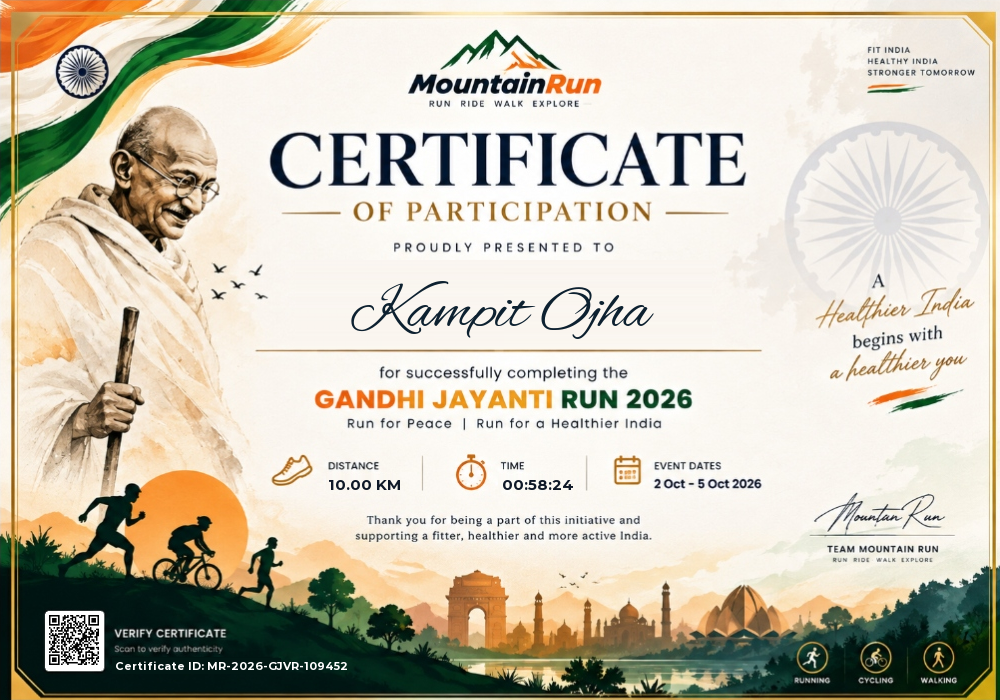
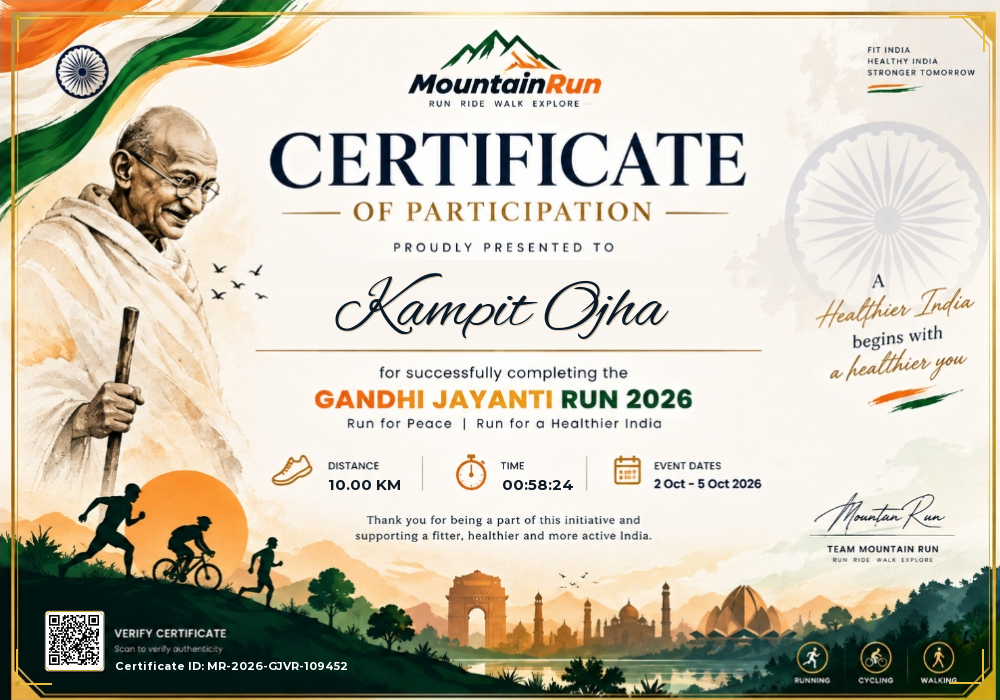
feat(certificates): polish visual presentation with ambient halo, gold filigree accents, WhatsApp sharing, and celebratory confetti

Changed region(s): [[0.341, 0.39, 0.682, 0.48]]

diff --git a/frontend/src/app/certificates/[certificateNumber]/page.tsx b/frontend/src/app/certificates/[certificateNumber]/page.tsx
@@ -133,6 +133,59 @@ function LuxuryWaxSeal() {
   );
 }
 
+function CelebrationConfetti() {
+  const [active, setActive] = useState(true);
+
+  useEffect(() => {
+    const timer = setTimeout(() => setActive(false), 4500);
+    return () => clearTimeout(timer);
+  }, []);
+
+  if (!active) return null;
+
+  const confettiPieces = Array.from({ length: 38 }).map((_, i) => {
+    const colors = ["#FF9933", "#ffffff", "#138808", "#e5b83b", "#c9a227", "#34d399"];
+    const color = colors[i % colors.length];
+    const left = (i * 2.6) % 100;
+    const animDelay = (i * 0.08) % 1.6;
+    const animDuration = 2.8 + (i % 5) * 0.4;
+    const size = 6 + (i % 4) * 2.5;
+    const isCircle = i % 3 === 0;
+
+    return (
+      <div
+        key={i}
+        className="fixed pointer-events-none z-50"
+        style={{
+          top: "-20px",
+          left: `${left}%`,
+          width: `${size}px`,
+          height: isCircle ? `${size}px` : `${size * 1.5}px`,
+          backgroundColor: color,
+          borderRadius: isCircle ? "50%" : "2px",
+          boxShadow: `0 0 8px ${color}`,
+          animation: `confettiFall ${animDuration}s ease-in forwards`,
+          animationDelay: `${animDelay}s`,
+          transform: `rotate(${(i * 37) % 360}deg)`,
+        }}
+      />
+    );
+  });
+
+  return (
+    <div className="fixed inset-0 pointer-events-none z-50 overflow-hidden print:hidden">
+      <style>{`
+        @keyframes confettiFall {
+          0% { transform: translateY(0) rotate(0deg) scale(1); opacity: 1; }
+          75% { opacity: 0.9; }
+          100% { transform: translateY(105vh) rotate(720deg) scale(0.6); opacity: 0; }
+        }
+      `}</style>
+      {confettiPieces}
+    </div>
+  );
+}
+
 function GandhiCertificateCanvas({
   data,
   viewMode = "landscape",
@@ -201,7 +254,7 @@ function GandhiCertificateCanvas({
         // 2. Wait for Alex Brush cursive calligraphy font
         if (typeof document !== "undefined" && document.fonts) {
           try {
-            await document.fonts.load("60px 'Alex Brush'");
+            await document.fonts.load("68px 'Alex Brush'");
             await document.fonts.ready;
           } catch {
             // Proceed
@@ -211,9 +264,35 @@ function GandhiCertificateCanvas({
         // 3. Draw Runner Name in Cursive Calligraphy
         ctx.textAlign = "center";
         ctx.textBaseline = "alphabetic";
-        ctx.fillStyle = "#0d2130";
-        ctx.font = "60px 'Alex Brush', 'Great Vibes', cursive";
+        ctx.font = "68px 'Alex Brush', 'Great Vibes', cursive";
+
+        // Subtle soft drop shadow for depth
+        ctx.fillStyle = "#d2c3af";
+        ctx.fillText(data.runnerName, 503, 329);
+        ctx.fillStyle = "#0a1a28";
         ctx.fillText(data.runnerName, 502, 328);
+
+        // Subtle gold flourishes flanking the name
+        const textMetrics = ctx.measureText(data.runnerName);
+        const halfW = textMetrics.width / 2;
+        const leftX = 502 - halfW - 14;
+        const rightX = 502 + halfW + 14;
+        const flourishY = 320;
+
+        ctx.strokeStyle = "#c9a227";
+        ctx.lineWidth = 1;
+        if (leftX > 325) {
+          ctx.beginPath();
+          ctx.moveTo(leftX - 30, flourishY);
+          ctx.lineTo(leftX - 6, flourishY);
+          ctx.stroke();
+        }
+        if (rightX < 675) {
+          ctx.beginPath();
+          ctx.moveTo(rightX + 6, flourishY);
+          ctx.lineTo(rightX + 30, flourishY);
+          ctx.stroke();
+        }
 
         // 4. Stats: Distance & Time
         ctx.font = "bold 15px 'Montserrat', -apple-system, sans-serif";
@@ -294,18 +373,40 @@ function GandhiCertificateCanvas({
     }
   };
 
+  const handleWhatsAppShare = () => {
+    if (typeof window !== "undefined") {
+      const shareUrl = window.location.href;
+      const shareText = `🏅 Proud to share my official Certificate of Participation for the Gandhi Jayanti Victory Run 2026 (${data.distance || "10.00 KM"}) with Mountain Run!\n\nVerify certificate here: ${shareUrl}`;
+      window.open(`https://api.whatsapp.com/send?text=${encodeURIComponent(shareText)}`, "_blank");
+    }
+  };
+
   return (
-    <div className={`w-full mx-auto space-y-6 transition-all duration-300 ${viewMode === "portrait" ? "max-w-xl" : "max-w-4xl"}`}>
-      {/* ── Direct Hero Certificate (Clean Centerpiece without Nested Frames) ── */}
+    <div className={`w-full mx-auto space-y-6 sm:space-y-8 transition-all duration-300 relative ${viewMode === "portrait" ? "max-w-xl" : "max-w-4xl"}`}>
+      <CelebrationConfetti />
+
+      {/* ── Ambient Radial Halo / Stage Lighting (Celebratory Glow) ── */}
+      <div className="absolute -inset-4 sm:-inset-10 rounded-[2.5rem] bg-gradient-to-tr from-[#ff9933]/15 via-[#c9a227]/20 to-[#138808]/15 blur-3xl opacity-75 pointer-events-none -z-10 animate-pulse duration-1000" />
+
+      {/* ── Direct Hero Certificate (Clean Centerpiece with Museum Depth) ── */}
       <div
         ref={certRef as React.RefObject<HTMLDivElement>}
         id="certificate-print"
-        className="relative group rounded-2xl sm:rounded-3xl overflow-hidden shadow-2xl transition-all duration-300 hover:shadow-[0_25px_65px_rgba(0,0,0,0.6)] cursor-pointer bg-white"
+        className="relative group rounded-2xl sm:rounded-3xl overflow-hidden shadow-2xl transition-all duration-300 hover:shadow-[0_30px_90px_rgba(0,0,0,0.85)] cursor-pointer bg-white border-2 sm:border-3 border-[#c9a227]/70"
         onClick={() => setIsModalOpen(true)}
         style={{
-          boxShadow: "0 22px 55px rgba(0,0,0,0.45), 0 0 0 1px rgba(201,162,39,0.35)",
+          boxShadow: "0 25px 65px -10px rgba(0,0,0,0.85), 0 0 45px rgba(201,162,39,0.22)",
         }}
       >
+        {/* Floating Top-Right Verified Badge */}
+        <div className="absolute top-2.5 right-2.5 sm:top-3.5 sm:right-3.5 z-10 pointer-events-none">
+          <span className="inline-flex items-center gap-1.5 px-3 py-1 rounded-full bg-black/70 backdrop-blur-md border border-[#c9a227]/70 text-[#e5b83b] text-[0.6rem] sm:text-xs font-bold tracking-wide shadow-xl">
+            <span className="w-2 h-2 rounded-full bg-[#34d399] animate-pulse" />
+            <span>✓ OFFICIALLY VERIFIED</span>
+          </span>
+        </div>
+
+        {/* Certificate Image */}
         {/* eslint-disable-next-line @next/next/no-img-element */}
         <img
           src={displayImage}
@@ -314,20 +415,21 @@ function GandhiCertificateCanvas({
         />
 
         {/* Hover zoom hint */}
-        <div className="absolute inset-0 bg-black/25 opacity-0 group-hover:opacity-100 transition-opacity flex items-center justify-center pointer-events-none">
+        <div className="absolute inset-0 bg-black/20 opacity-0 group-hover:opacity-100 transition-opacity flex items-center justify-center pointer-events-none">
           <span className="px-5 py-2.5 rounded-full bg-black/85 text-[#e5b83b] text-xs sm:text-sm font-bold shadow-2xl backdrop-blur-xs flex items-center gap-2 border border-[#c9a227]/50">
             🔍 Click to View Fullscreen / Zoom
           </span>
         </div>
       </div>
 
-      {/* ── Primary Action Buttons Directly Below Certificate ── */}
-      <div className="flex flex-wrap items-center justify-center gap-3 pt-1 print:hidden">
+      {/* ── Unified Luxury Action Dock Directly Below Certificate ── */}
+      <div className="flex flex-wrap items-center justify-center gap-2.5 sm:gap-3.5 pt-1 print:hidden">
+        {/* Primary Download PNG Button */}
         <button
           type="button"
           onClick={handleGandhiDownload}
           disabled={isDownloading}
-          className="inline-flex items-center gap-2 px-6 sm:px-8 py-3 rounded-full bg-gradient-to-r from-[#0d3829] to-[#134e3a] border-2 border-[#c9a227] text-white font-black text-xs sm:text-sm tracking-wider uppercase shadow-xl hover:scale-105 active:scale-95 transition-all cursor-pointer disabled:opacity-75"
+          className="inline-flex items-center gap-2 px-6 sm:px-8 py-3 rounded-full bg-gradient-to-r from-[#0d3829] via-[#134e3a] to-[#0d3829] border-2 border-[#c9a227] text-white font-black text-xs sm:text-sm tracking-wider uppercase shadow-xl hover:scale-105 active:scale-95 transition-all cursor-pointer disabled:opacity-75 hover:shadow-[0_0_25px_rgba(201,162,39,0.35)]"
         >
           {isDownloading ? (
             <>
@@ -337,27 +439,50 @@ function GandhiCertificateCanvas({
           ) : (
             <>
               <span>🏆</span>
-              <span>DOWNLOAD HIGH-RES CERTIFICATE (PNG)</span>
+              <span>DOWNLOAD HIGH-RES (PNG)</span>
             </>
           )}
         </button>
 
+        {/* PDF / Print Button */}
+        <button
+          type="button"
+          onClick={() => window.print()}
+          className="inline-flex items-center gap-2 px-4 sm:px-5 py-3 rounded-full bg-white/10 hover:bg-white/20 border border-white/25 text-white font-bold text-xs sm:text-sm shadow-md transition-all cursor-pointer"
+        >
+          <span>📄</span>
+          <span>PDF / Print</span>
+        </button>
+
+        {/* Fullscreen Button */}
         <button
           type="button"
           onClick={() => setIsModalOpen(true)}
-          className="inline-flex items-center gap-2 px-5 sm:px-6 py-3 rounded-full bg-white/10 hover:bg-white/20 border-2 border-white/20 text-white font-bold text-xs sm:text-sm tracking-wide shadow-md transition-all cursor-pointer"
+          className="inline-flex items-center gap-2 px-4 sm:px-5 py-3 rounded-full bg-white/10 hover:bg-white/20 border border-white/25 text-white font-bold text-xs sm:text-sm shadow-md transition-all cursor-pointer"
         >
           <span>🔍</span>
-          <span>VIEW FULLSCREEN</span>
+          <span>Fullscreen</span>
         </button>
 
+        {/* WhatsApp Share Button */}
+        <button
+          type="button"
+          onClick={handleWhatsAppShare}
+          className="inline-flex items-center gap-2 px-4 sm:px-5 py-3 rounded-full bg-[#25D366]/20 hover:bg-[#25D366]/30 border border-[#25D366]/50 text-[#25D366] hover:text-white font-bold text-xs sm:text-sm shadow-md transition-all cursor-pointer"
+          title="Share on WhatsApp"
+        >
+          <span>💬</span>
+          <span>WhatsApp</span>
+        </button>
+
+        {/* Copy Share Link */}
         {onShare && (
           <button
             type="button"
             onClick={onShare}
-            className="inline-flex items-center gap-2 px-5 sm:px-6 py-3 rounded-full bg-white/5 hover:bg-white/10 border-2 border-white/15 text-white/90 font-bold text-xs sm:text-sm shadow-sm transition-all cursor-pointer"
+            className="inline-flex items-center gap-2 px-4 sm:px-5 py-3 rounded-full bg-white/5 hover:bg-white/10 border border-white/20 text-white/90 font-bold text-xs sm:text-sm shadow-sm transition-all cursor-pointer"
           >
-            <span>{copied ? "✓ Copied Link!" : "🔗 Share Certificate"}</span>
+            <span>{copied ? "✓ Copied Link!" : "🔗 Share Link"}</span>
           </button>
         )}
       </div>
@@ -441,7 +566,7 @@ function GandhiCertificateCanvas({
               className="max-h-[82vh] w-auto max-w-full rounded-2xl shadow-2xl border-2 border-[#c9a227] object-contain"
               onClick={(e) => e.stopPropagation()}
             />
-            <div className="mt-4 flex items-center gap-3">
+            <div className="mt-4 flex flex-wrap items-center justify-center gap-3">
               <button
                 type="button"
                 onClick={(e) => {
@@ -451,6 +576,16 @@ function GandhiCertificateCanvas({
                 className="px-6 py-2.5 rounded-full bg-gradient-to-r from-[#0d3829] to-[#134e3a] border-2 border-[#c9a227] text-white text-xs sm:text-sm font-bold hover:scale-105 active:scale-95 transition-all cursor-pointer shadow-lg"
               >
                 🏆 Download PNG
+              </button>
+              <button
+                type="button"
+                onClick={(e) => {
+                  e.stopPropagation();
+                  handleWhatsAppShare();
+                }}
+                className="px-5 py-2.5 rounded-full bg-[#25D366]/20 hover:bg-[#25D366]/30 border border-[#25D366]/50 text-[#25D366] hover:text-white text-xs sm:text-sm font-bold transition-all shadow-md cursor-pointer"
+              >
+                💬 Share on WhatsApp
               </button>
             </div>
           </div>
@@ -596,23 +731,40 @@ export default function CertificateVerifyPage() {
       <section className="section pt-24 sm:pt-32 pb-12 sm:pb-16">
         <div className="container-page max-w-5xl">
           {/* Header controls (hidden on print) */}
-          <div className="flex flex-col sm:flex-row sm:items-center justify-between gap-4 mb-6 print:hidden">
+          <div className="flex flex-col sm:flex-row sm:items-center justify-between gap-4 mb-6 sm:mb-8 print:hidden">
             <div>
-              <p className="eyebrow text-[#c9a227]">Official Finisher Credential</p>
-              <h1 className="heading text-2xl sm:text-3xl mt-1">Certificate of Achievement</h1>
-              <p className="lede text-xs sm:text-sm mt-1">Verified Mountain Run finisher achievement.</p>
+              <div className="inline-flex items-center gap-2 px-3 py-1 rounded-full bg-gradient-to-r from-[#FF9933]/15 via-white/5 to-[#138808]/15 border border-[#c9a227]/40 mb-2">
+                <span className="text-xs">🇮🇳</span>
+                <span className="text-[0.65rem] sm:text-xs font-black tracking-widest uppercase text-[#e5b83b]">
+                  NATIONAL FINISHER CREDENTIAL • GANDHI JAYANTI 2026
+                </span>
+              </div>
+              <h1 className="heading text-2xl sm:text-3xl font-black text-white tracking-tight">
+                Certificate of Participation
+              </h1>
+              <p className="text-xs sm:text-sm text-white/70 mt-1">
+                Awarded to <strong className="text-[#e5b83b] font-bold">{data?.runnerName || "Finisher"}</strong> for successfully completing <strong className="text-white">{data?.distance || "10.00 KM"}</strong>.
+              </p>
             </div>
 
             {data && (
-              <div className="flex flex-wrap items-center gap-2">
+              <div className="flex items-center gap-2.5 shrink-0">
+                {/* Official verified badge */}
+                <div className="hidden sm:inline-flex items-center gap-1.5 px-3.5 py-1.5 rounded-xl bg-[#138808]/15 border border-[#138808]/40 text-[#34d399] text-xs font-bold shadow-sm">
+                  <svg className="w-3.5 h-3.5" viewBox="0 0 20 20" fill="currentColor">
+                    <path fillRule="evenodd" d="M10 18a8 8 0 100-16 8 8 0 000 16zm3.707-9.293a1 1 0 00-1.414-1.414L9 10.586 7.707 9.293a1 1 0 00-1.414 1.414l2 2a1 1 0 001.414 0l4-4z" clipRule="evenodd" />
+                  </svg>
+                  <span>Verified Finisher</span>
+                </div>
+
                 {/* View Mode Toggle Switch */}
-                <div className="inline-flex rounded-xl bg-black/10 p-1 border border-white/15">
+                <div className="inline-flex rounded-xl bg-white/5 p-1 border border-white/15 backdrop-blur-sm shadow-sm">
                   <button
                     type="button"
                     onClick={() => setViewMode("landscape")}
                     className={`px-3 py-1.5 rounded-lg text-xs font-bold transition-all flex items-center gap-1.5 ${
                       viewMode === "landscape"
-                        ? "bg-[#0d3829] text-[#e5b83b] shadow-md"
+                        ? "bg-[#0d3829] text-[#e5b83b] shadow-md border border-[#c9a227]/40"
                         : "text-(--muted) hover:text-foreground"
                     }`}
                   >
@@ -623,53 +775,13 @@ export default function CertificateVerifyPage() {
                     onClick={() => setViewMode("portrait")}
                     className={`px-3 py-1.5 rounded-lg text-xs font-bold transition-all flex items-center gap-1.5 ${
                       viewMode === "portrait"
-                        ? "bg-[#0d3829] text-[#e5b83b] shadow-md"
+                        ? "bg-[#0d3829] text-[#e5b83b] shadow-md border border-[#c9a227]/40"
                         : "text-(--muted) hover:text-foreground"
                     }`}
                   >
                     📱 <span>Mobile Fit</span>
                   </button>
                 </div>
-
-                {/* 1-Click High-Res Download PNG Button */}
-                <button
-                  className="btn btn-primary gap-1.5 text-xs h-9 px-3.5 shadow-md"
-                  onClick={handleDownloadImage}
-                  disabled={isDownloading}
-                  type="button"
-                >
-                  {isDownloading ? (
-                    <>
-                      <div className="w-3.5 h-3.5 border-2 border-white border-t-transparent rounded-full animate-spin" />
-                      <span>Saving...</span>
-                    </>
-                  ) : (
-                    <>
-                      <svg width="14" height="14" viewBox="0 0 24 24" fill="none" stroke="currentColor" strokeWidth="2.5" strokeLinecap="round" strokeLinejoin="round"><path d="M21 15v4a2 2 0 0 1-2 2H5a2 2 0 0 1-2-2v-4"/><polyline points="7 10 12 15 17 10"/><line x1="12" y1="15" x2="12" y2="3"/></svg>
-                      <span>Download PNG</span>
-                    </>
-                  )}
-                </button>
-
-                {/* Print / Save PDF Button */}
-                <button
-                  className="btn btn-secondary gap-1.5 text-xs h-9 px-3"
-                  onClick={() => window.print()}
-                  type="button"
-                >
-                  <svg width="14" height="14" viewBox="0 0 24 24" fill="none" stroke="currentColor" strokeWidth="2" strokeLinecap="round" strokeLinejoin="round"><path d="M6 9V2h12v7" /><path d="M6 18H4a2 2 0 0 1-2-2v-5a2 2 0 0 1 2-2h16a2 2 0 0 1 2 2v5a2 2 0 0 1-2 2h-2" /><rect x="6" y="14" width="12" height="8" /></svg>
-                  <span>PDF / Print</span>
-                </button>
-
-                {/* Share Link Button */}
-                <button
-                  className="btn btn-ghost gap-1 text-xs h-9 px-2.5"
-                  onClick={handleCopyShare}
-                  type="button"
-                  title="Copy Certificate Link"
-                >
-                  {copied ? "✓ Copied!" : "🔗 Share"}
-                </button>
               </div>
             )}
           </div>
